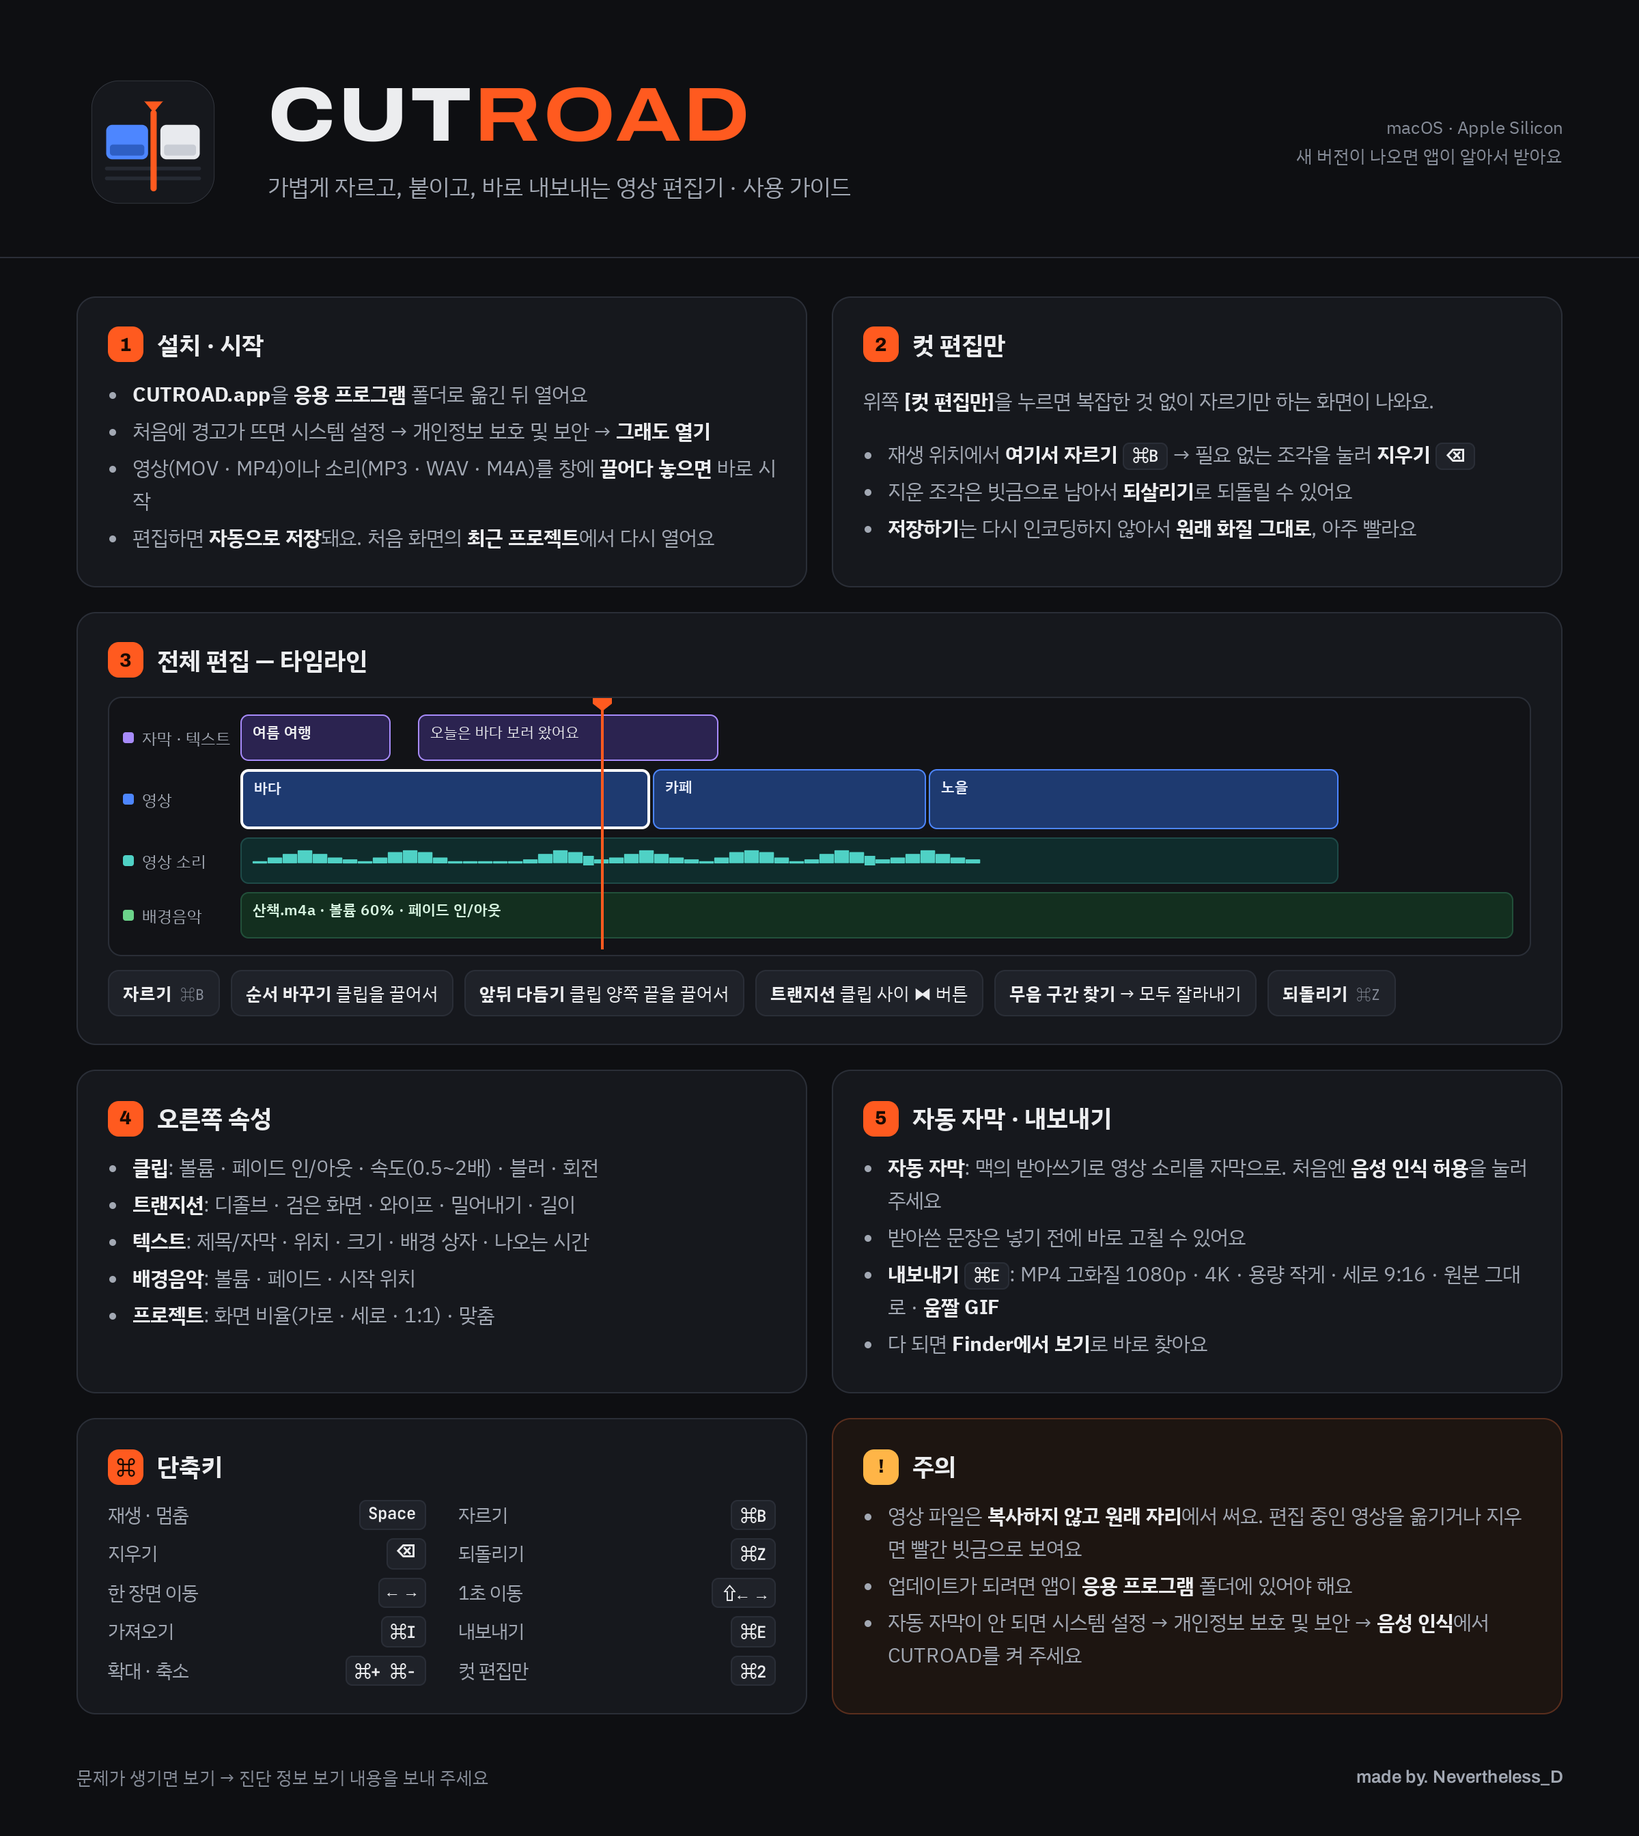
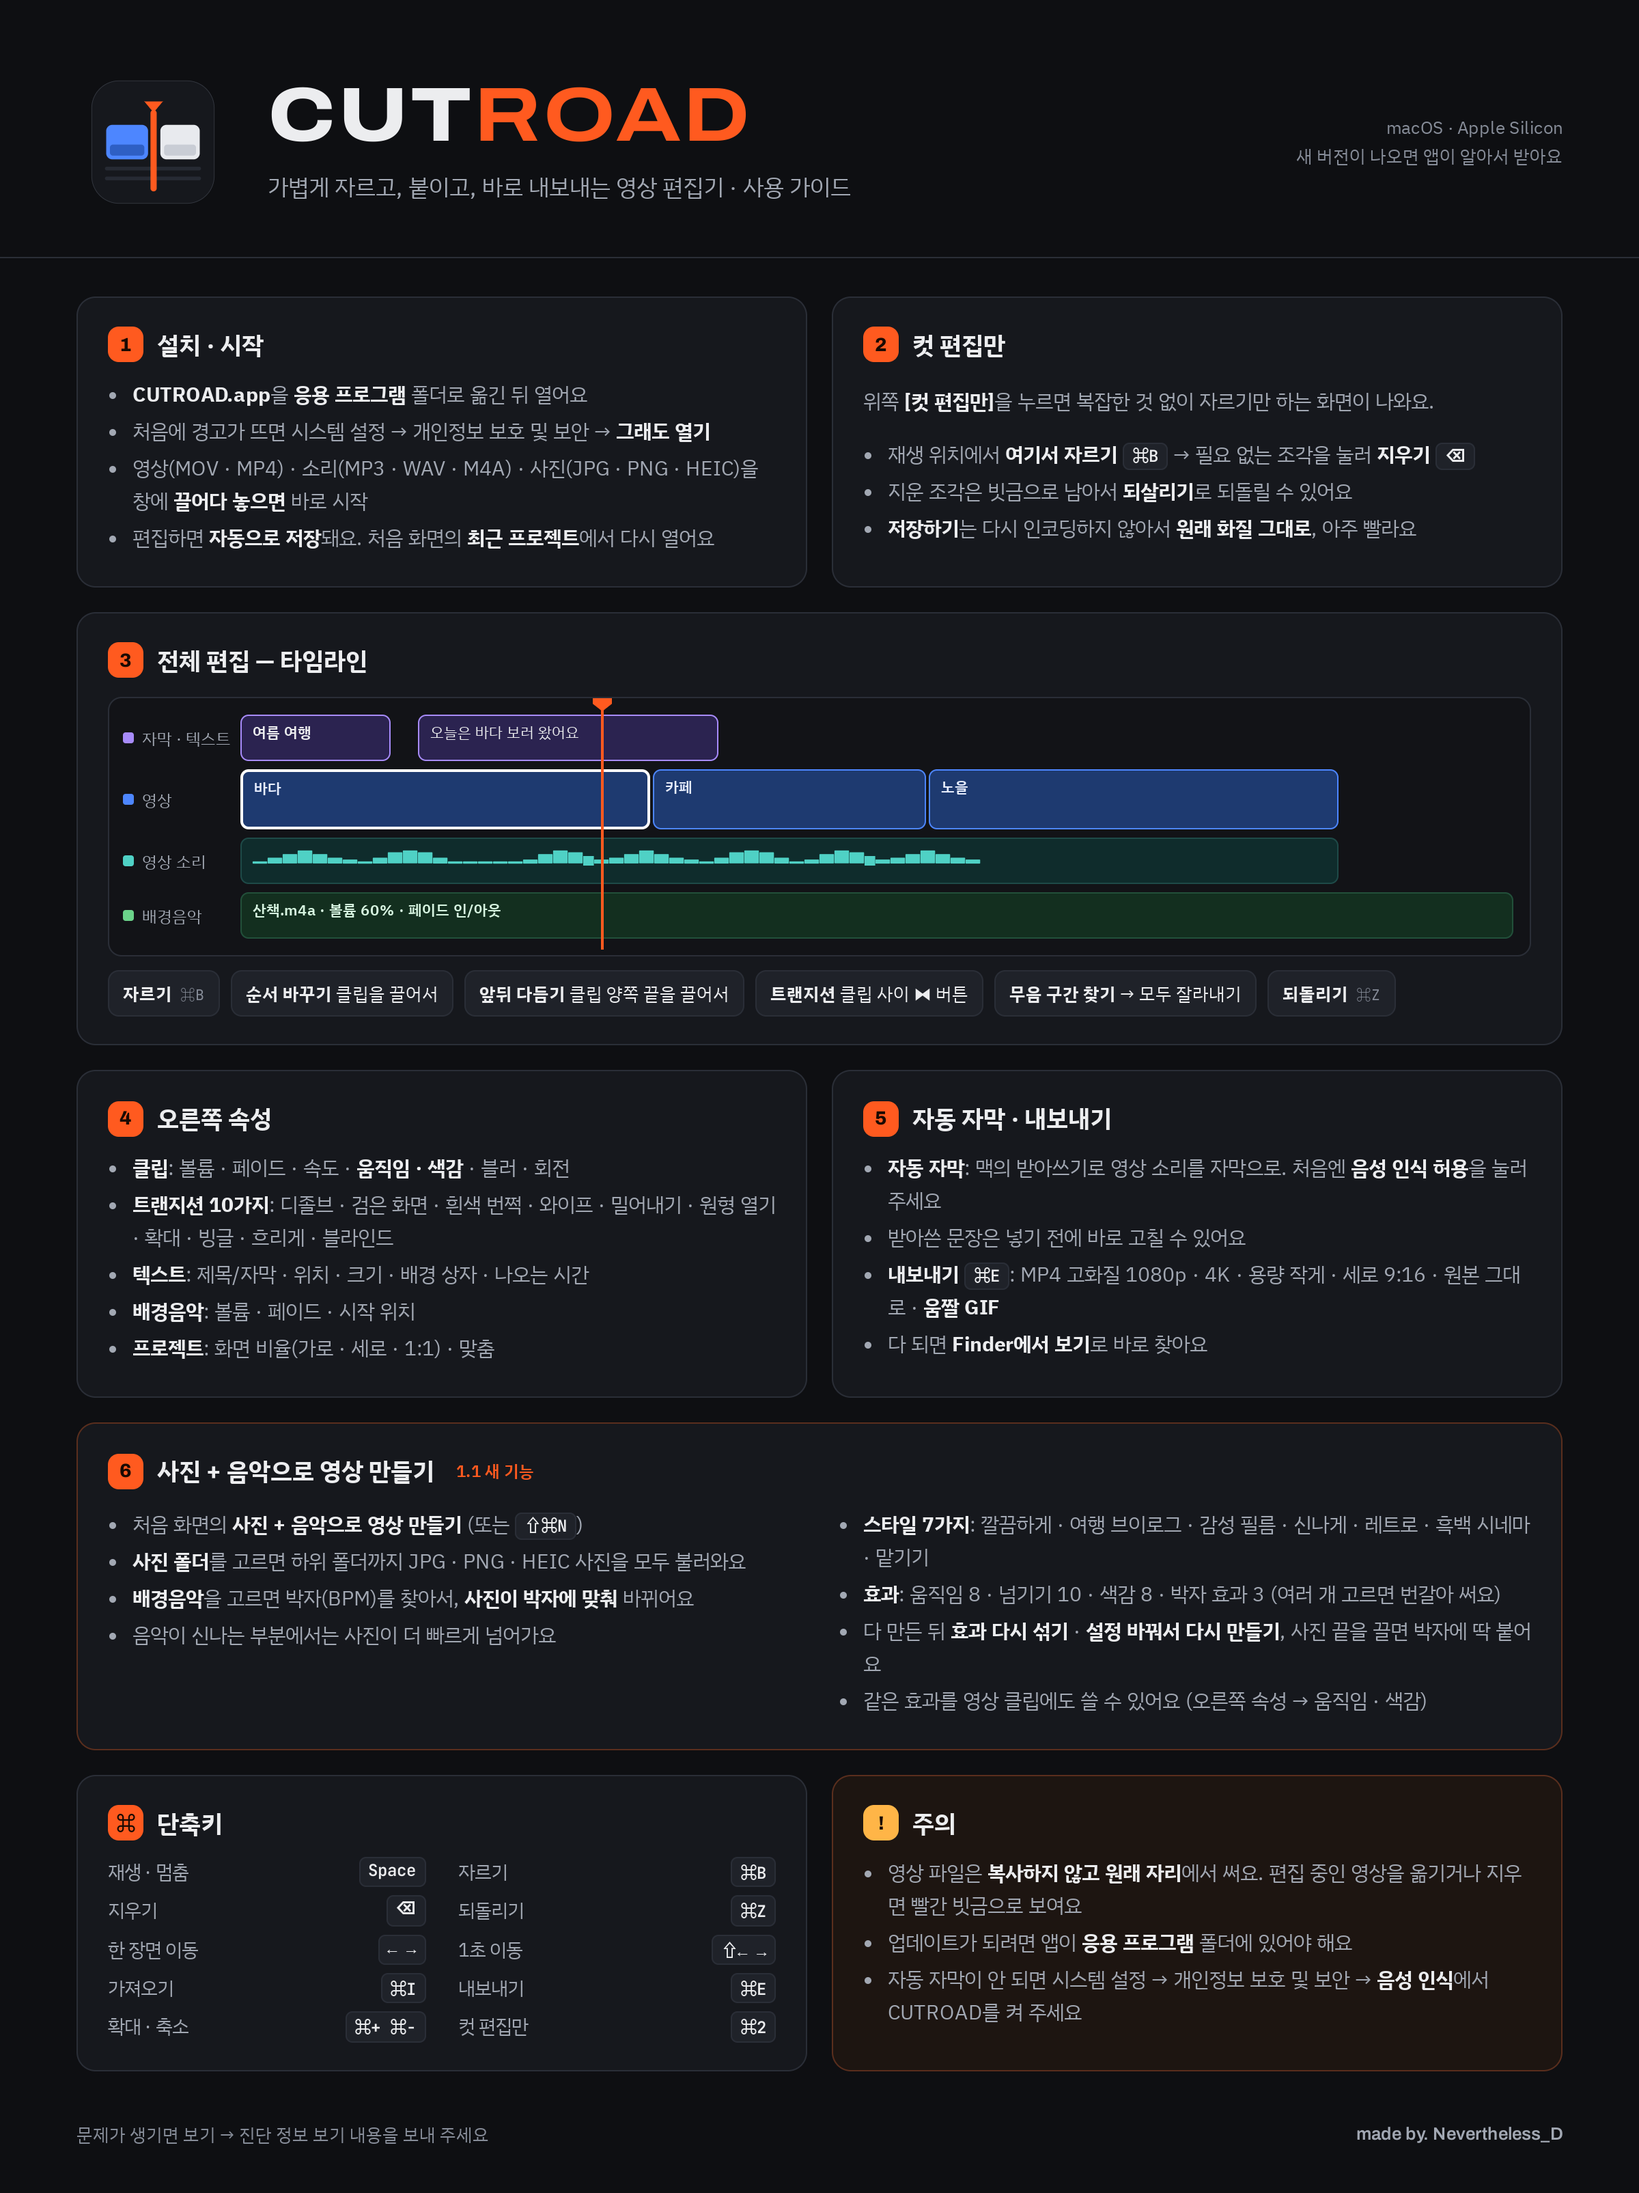
사진 바탕 영상 · 오류 자세히 · 박자 반으로 잡히는 일 막기
Claude-Session: https://claude.ai/code/session_01W9yUZCDbHqXCk8PLKovwyL

diff --git a/app/shell/Render.swift b/app/shell/Render.swift
@@ -677,16 +677,18 @@ enum Builder {
     static func baseTrack() throws -> AVAssetTrack {
         baseLock.lock(); defer { baseLock.unlock() }
         try? FileManager.default.createDirectory(at: Paths.cache, withIntermediateDirectories: true)
-        let url = Paths.cache.appendingPathComponent("base-v1.mov")
+        let url = Paths.cache.appendingPathComponent("base-v2.mov")
         if !FileManager.default.fileExists(atPath: url.path) {
-            let tmp = Paths.cache.appendingPathComponent("base-v1.\(getpid()).tmp.mov")
+            let tmp = Paths.cache.appendingPathComponent("base-v2-\(getpid())-tmp.mov")
             try? FileManager.default.removeItem(at: tmp)
             let w = try AVAssetWriter(outputURL: tmp, fileType: .mov)
-            let input = AVAssetWriterInput(mediaType: .video, outputSettings: [AVVideoCodecKey: AVVideoCodecType.h264, AVVideoWidthKey: 64, AVVideoHeightKey: 64])
+            let input = AVAssetWriterInput(mediaType: .video, outputSettings: [AVVideoCodecKey: AVVideoCodecType.h264, AVVideoWidthKey: 320, AVVideoHeightKey: 180])
+            input.expectsMediaDataInRealTime = false
             let ad = AVAssetWriterInputPixelBufferAdaptor(assetWriterInput: input, sourcePixelBufferAttributes: [
-                kCVPixelBufferPixelFormatTypeKey as String: kCVPixelFormatType_32BGRA, kCVPixelBufferWidthKey as String: 64, kCVPixelBufferHeightKey as String: 64])
+                kCVPixelBufferPixelFormatTypeKey as String: kCVPixelFormatType_32BGRA, kCVPixelBufferWidthKey as String: 320, kCVPixelBufferHeightKey as String: 180])
+            guard w.canAdd(input) else { throw RenderError("사진용 바탕을 준비하지 못했어요") }
             w.add(input)
-            guard w.startWriting() else { throw RenderError("사진용 바탕을 만들지 못했어요") }
+            guard w.startWriting() else { throw RenderError("사진용 바탕을 만들지 못했어요: \(w.error.map { Exporter.detail($0) } ?? "")") }
             w.startSession(atSourceTime: .zero)
             for f in 0..<300 {
                 while !input.isReadyForMoreMediaData { usleep(1000) }
@@ -702,7 +704,7 @@ enum Builder {
             let sem = DispatchSemaphore(value: 0)
             w.finishWriting { sem.signal() }
             sem.wait()
-            guard w.status == .completed else { throw RenderError("사진용 바탕을 만들지 못했어요") }
+            guard w.status == .completed else { throw RenderError("사진용 바탕을 마무리하지 못했어요: \(w.error.map { Exporter.detail($0) } ?? "")") }
             try? FileManager.default.removeItem(at: url)
             try FileManager.default.moveItem(at: tmp, to: url)
         }
@@ -776,9 +778,12 @@ enum Builder {
                 }
                 if i == 0 { shortSide = Int(min(c.w > 0 ? c.w : 1080, c.h > 0 ? c.h : 1080)) }
                 if includeVideo {
-                    let base = try baseTrack()
+                    let base: AVAssetTrack
+                    do { base = try baseTrack() } catch { throw RenderError("사진용 바탕을 만들지 못했어요: \(Exporter.detail(error))") }
                     let vt = vTrack(i)
-                    try insert(vt, from: base, inT: 0, outT: base.timeRange.end.seconds, at: plan.starts[i], dur: c.dur)
+                    do {
+                        try insert(vt, from: base, inT: 0, outT: base.timeRange.end.seconds, at: plan.starts[i], dur: c.dur)
+                    } catch { throw RenderError("사진 \(i + 1)번을 타임라인에 놓지 못했어요: \(Exporter.detail(error))") }
                     layers.append(Layer(trackID: vt.trackID, sourceRotation: 0, userRotation: c.rotate, start: plan.starts[i], end: plan.end(i),
                                         fadeIn: c.fadeIn, fadeOut: c.fadeOut, blur: c.blur, imagePath: c.path, motion: c.motion, filter: c.filter))
                 }

diff --git a/docs/guide.html b/docs/guide.html
@@ -61,7 +61,7 @@ kbd { font: 600 12px 'JetBrains Mono', monospace; color: var(--text); background
     <ul>
       <li><b>CUTROAD.app</b>을 <b>응용 프로그램</b> 폴더로 옮긴 뒤 열어요</li>
       <li>처음에 경고가 뜨면 시스템 설정 → 개인정보 보호 및 보안 → <b>그래도 열기</b></li>
-      <li>영상(MOV · MP4)이나 소리(MP3 · WAV · M4A)를 창에 <b>끌어다 놓으면</b> 바로 시작</li>
+      <li>영상(MOV · MP4) · 소리(MP3 · WAV · M4A) · 사진(JPG · PNG · HEIC)을 창에 <b>끌어다 놓으면</b> 바로 시작</li>
       <li>편집하면 <b>자동으로 저장</b>돼요. 처음 화면의 <b>최근 프로젝트</b>에서 다시 열어요</li>
     </ul>
   </div>
@@ -104,8 +104,8 @@ kbd { font: 600 12px 'JetBrains Mono', monospace; color: var(--text); background
   <div class="card">
     <h2><span class="n">4</span>오른쪽 속성</h2>
     <ul>
-      <li><b>클립</b>: 볼륨 · 페이드 인/아웃 · 속도(0.5~2배) · 블러 · 회전</li>
-      <li><b>트랜지션</b>: 디졸브 · 검은 화면 · 와이프 · 밀어내기 · 길이</li>
+      <li><b>클립</b>: 볼륨 · 페이드 · 속도 · <b>움직임 · 색감</b> · 블러 · 회전</li>
+      <li><b>트랜지션 10가지</b>: 디졸브 · 검은 화면 · 흰색 번쩍 · 와이프 · 밀어내기 · 원형 열기 · 확대 · 빙글 · 흐리게 · 블라인드</li>
       <li><b>텍스트</b>: 제목/자막 · 위치 · 크기 · 배경 상자 · 나오는 시간</li>
       <li><b>배경음악</b>: 볼륨 · 페이드 · 시작 위치</li>
       <li><b>프로젝트</b>: 화면 비율(가로 · 세로 · 1:1) · 맞춤</li>
@@ -119,6 +119,24 @@ kbd { font: 600 12px 'JetBrains Mono', monospace; color: var(--text); background
       <li><b>내보내기</b> <kbd>⌘E</kbd>: MP4 고화질 1080p · 4K · 용량 작게 · 세로 9:16 · 원본 그대로 · <b>움짤 GIF</b></li>
       <li>다 되면 <b>Finder에서 보기</b>로 바로 찾아요</li>
     </ul>
+  </div>
+
+  <div class="card wide" style="border-color:#5a2e1d">
+    <h2><span class="n">6</span>사진 + 음악으로 영상 만들기 <span style="font-size:12px;color:var(--accent);font-weight:600;margin-left:6px">1.1 새 기능</span></h2>
+    <div style="display:grid;grid-template-columns:1fr 1fr;gap:6px 28px">
+      <ul>
+        <li>처음 화면의 <b>사진 + 음악으로 영상 만들기</b> (또는 <kbd>⇧⌘N</kbd>)</li>
+        <li><b>사진 폴더</b>를 고르면 하위 폴더까지 JPG · PNG · HEIC 사진을 모두 불러와요</li>
+        <li><b>배경음악</b>을 고르면 박자(BPM)를 찾아서, <b>사진이 박자에 맞춰</b> 바뀌어요</li>
+        <li>음악이 신나는 부분에서는 사진이 더 빠르게 넘어가요</li>
+      </ul>
+      <ul>
+        <li><b>스타일 7가지</b>: 깔끔하게 · 여행 브이로그 · 감성 필름 · 신나게 · 레트로 · 흑백 시네마 · 맡기기</li>
+        <li><b>효과</b>: 움직임 8 · 넘기기 10 · 색감 8 · 박자 효과 3 (여러 개 고르면 번갈아 써요)</li>
+        <li>다 만든 뒤 <b>효과 다시 섞기</b> · <b>설정 바꿔서 다시 만들기</b>, 사진 끝을 끌면 박자에 딱 붙어요</li>
+        <li>같은 효과를 영상 클립에도 쓸 수 있어요 (오른쪽 속성 → 움직임 · 색감)</li>
+      </ul>
+    </div>
   </div>
 
   <div class="card">

diff --git a/app/shell/Export.swift b/app/shell/Export.swift
@@ -98,9 +98,25 @@ enum Exporter {
             Log.write("내보내기 완료: \(dest.lastPathComponent) · \(size / 1_000_000)MB · \(Int(secs))초 \(note)")
             job.finish(["path": dest.path, "name": dest.lastPathComponent, "size": size, "seconds": secs, "note": note])
         } catch {
-            Log.write("⚠ 내보내기 실패: \(error.localizedDescription)")
-            job.fail(job.isCancelled ? "취소했어요" : error.localizedDescription)
+            Log.write("⚠ 내보내기 실패: \(Exporter.detail(error))")
+            job.fail(job.isCancelled ? "취소했어요" : Exporter.friendly(error))
         }
+    }
+
+    /// 진단 기록용: 맥이 알려 준 오류를 자세히 (종류 · 번호 · 원인)
+    static func detail(_ e: Error) -> String {
+        if let r = e as? RenderError { return r.message }
+        let n = e as NSError
+        var s = "\(n.localizedDescription) [\(n.domain) \(n.code)]"
+        if let f = n.localizedFailureReason { s += " " + f }
+        if let u = n.userInfo[NSUnderlyingErrorKey] as? NSError { s += " ← [\(u.domain) \(u.code)] \(u.localizedDescription)" }
+        return s
+    }
+
+    /// 화면에 보여 줄 말: 맥의 짧은 오류 문구 대신 무엇을 하다 안 됐는지 알려 줘요
+    static func friendly(_ e: Error) -> String {
+        if let r = e as? RenderError { return r.message }
+        return "영상을 만들지 못했어요 (" + detail(e) + ")"
     }
 
     static func uniqueURL(dir: URL, name: String, ext: String) -> URL {

diff --git a/app/shell/TestTools.swift b/app/shell/TestTools.swift
@@ -95,6 +95,10 @@ enum TestTools {
             out(["count": paths.count, "ok": items.filter { $0["error"] == nil && $0["preview"] != nil }.count,
                  "portrait": items.filter { (($0["height"] as? Int) ?? 0) > (($0["width"] as? Int) ?? 0) }.count])
             return paths.isEmpty ? 1 : 0
+        case "--test-base":
+            do { let t = try Builder.baseTrack(); out(["ok": true, "duration": t.timeRange.end.seconds]); return 0 } catch {
+                out(["ok": false, "error": Exporter.detail(error)]); return 1
+            }
         case "--test-export":
             guard let p = a.first, let d = try? Data(contentsOf: URL(fileURLWithPath: p)),
                   let spec = try? JSONSerialization.jsonObject(with: d) as? [String: Any] else { print("spec 을 읽지 못했어요"); return 2 }

diff --git a/app/shell/Photos.swift b/app/shell/Photos.swift
@@ -233,6 +233,12 @@ enum Beats {
             let den = a - 2 * b + c
             if den != 0 { period += 0.5 * (a - c) / den }
         }
+        // 박자가 반으로 잡히는 일(예: 120 → 60)을 막아요: 두 배 빠르기에서도 잘 맞으면 그쪽을 골라요
+        while 60 * fps / period < 90 {
+            let half = Int((period / 2).rounded())
+            guard half >= minLag, half < ac.count, 60 * fps / (period / 2) <= 150 else { break }
+            if ac[half] >= 0.35 * ac[Int(period.rounded())] { period /= 2 } else { break }
+        }
         let bpm = 60 * fps / period
 
         // 3) 박자 위치: 가장 잘 맞는 시작점을 찾고, 박자마다 가까운 튀는 곳에 살짝 맞춰요
